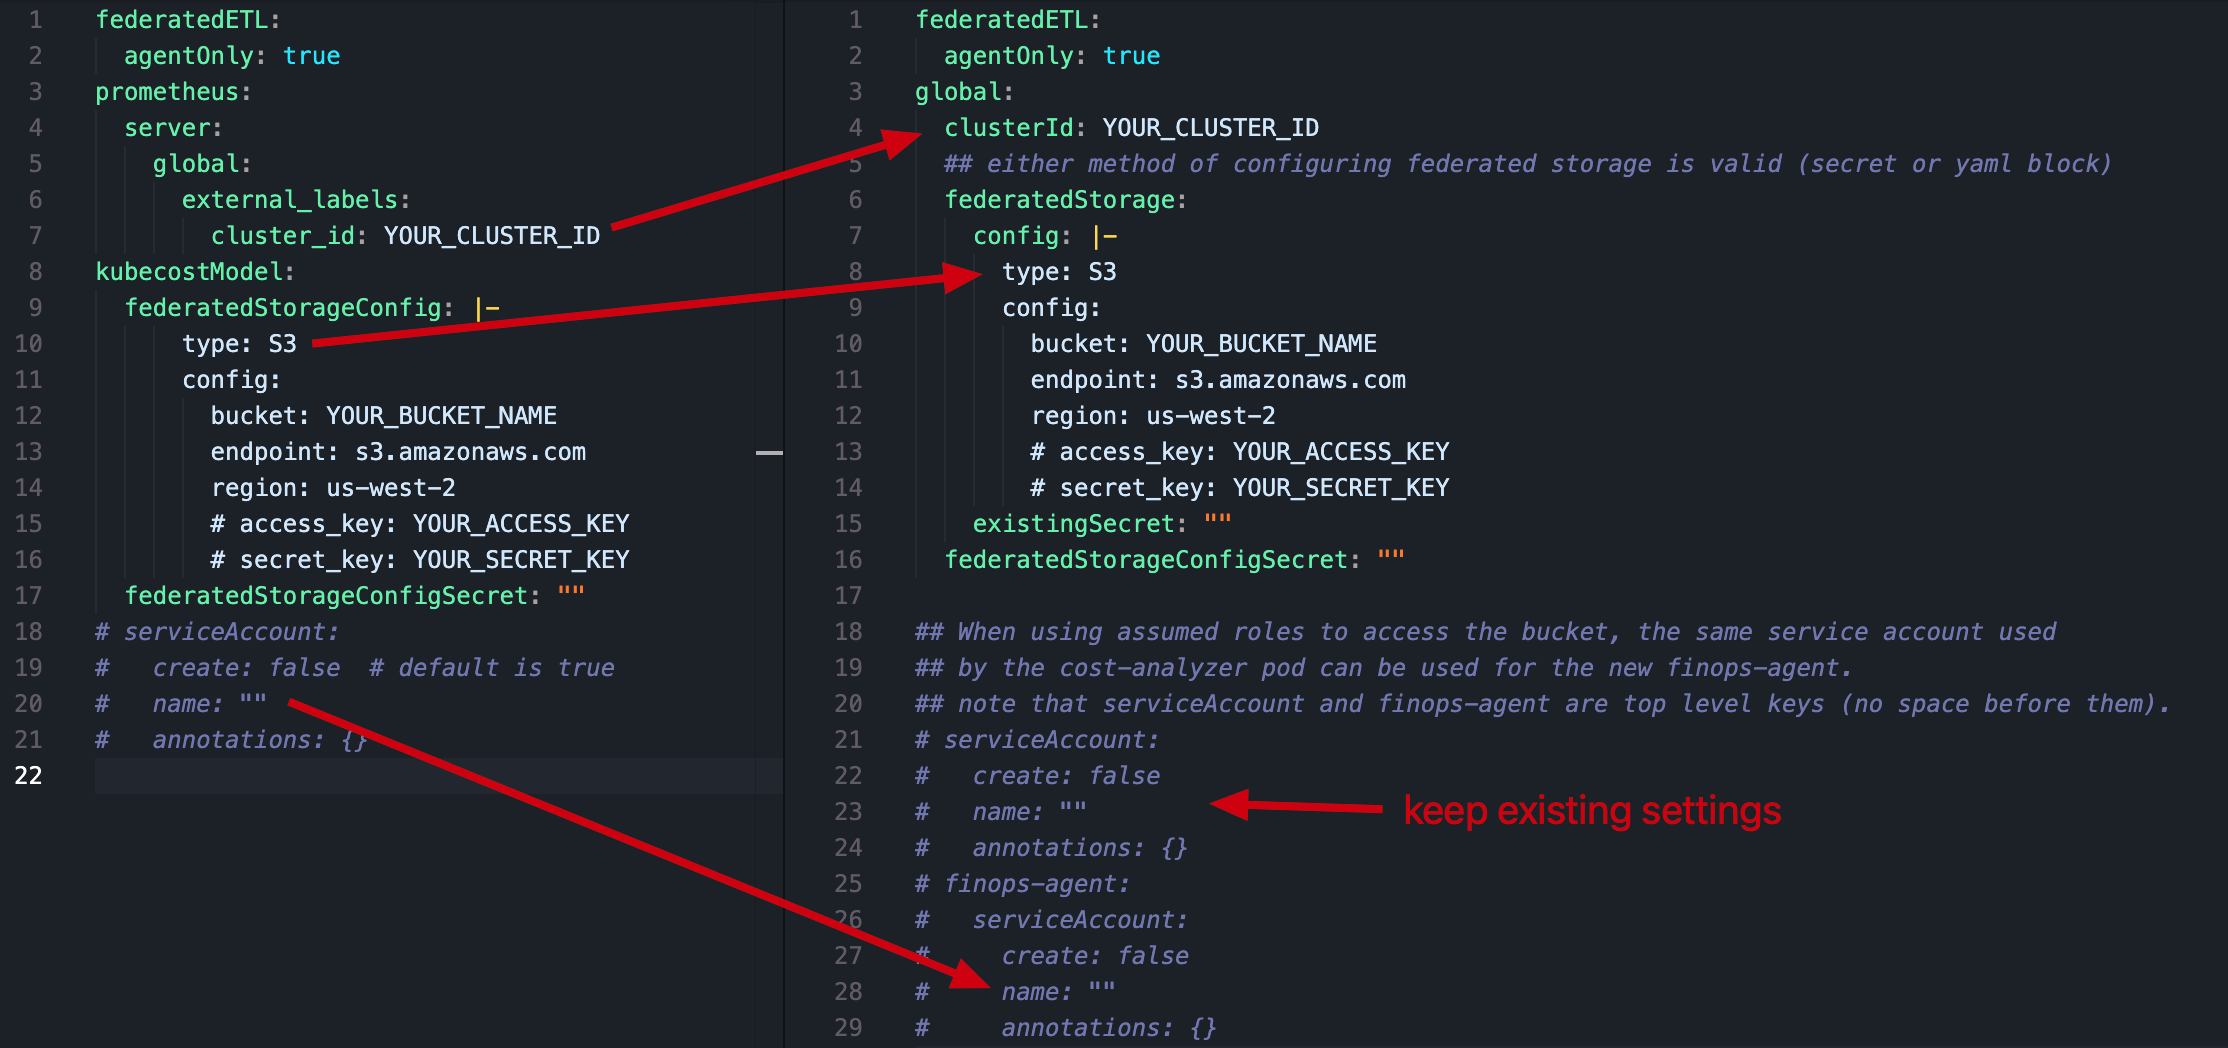
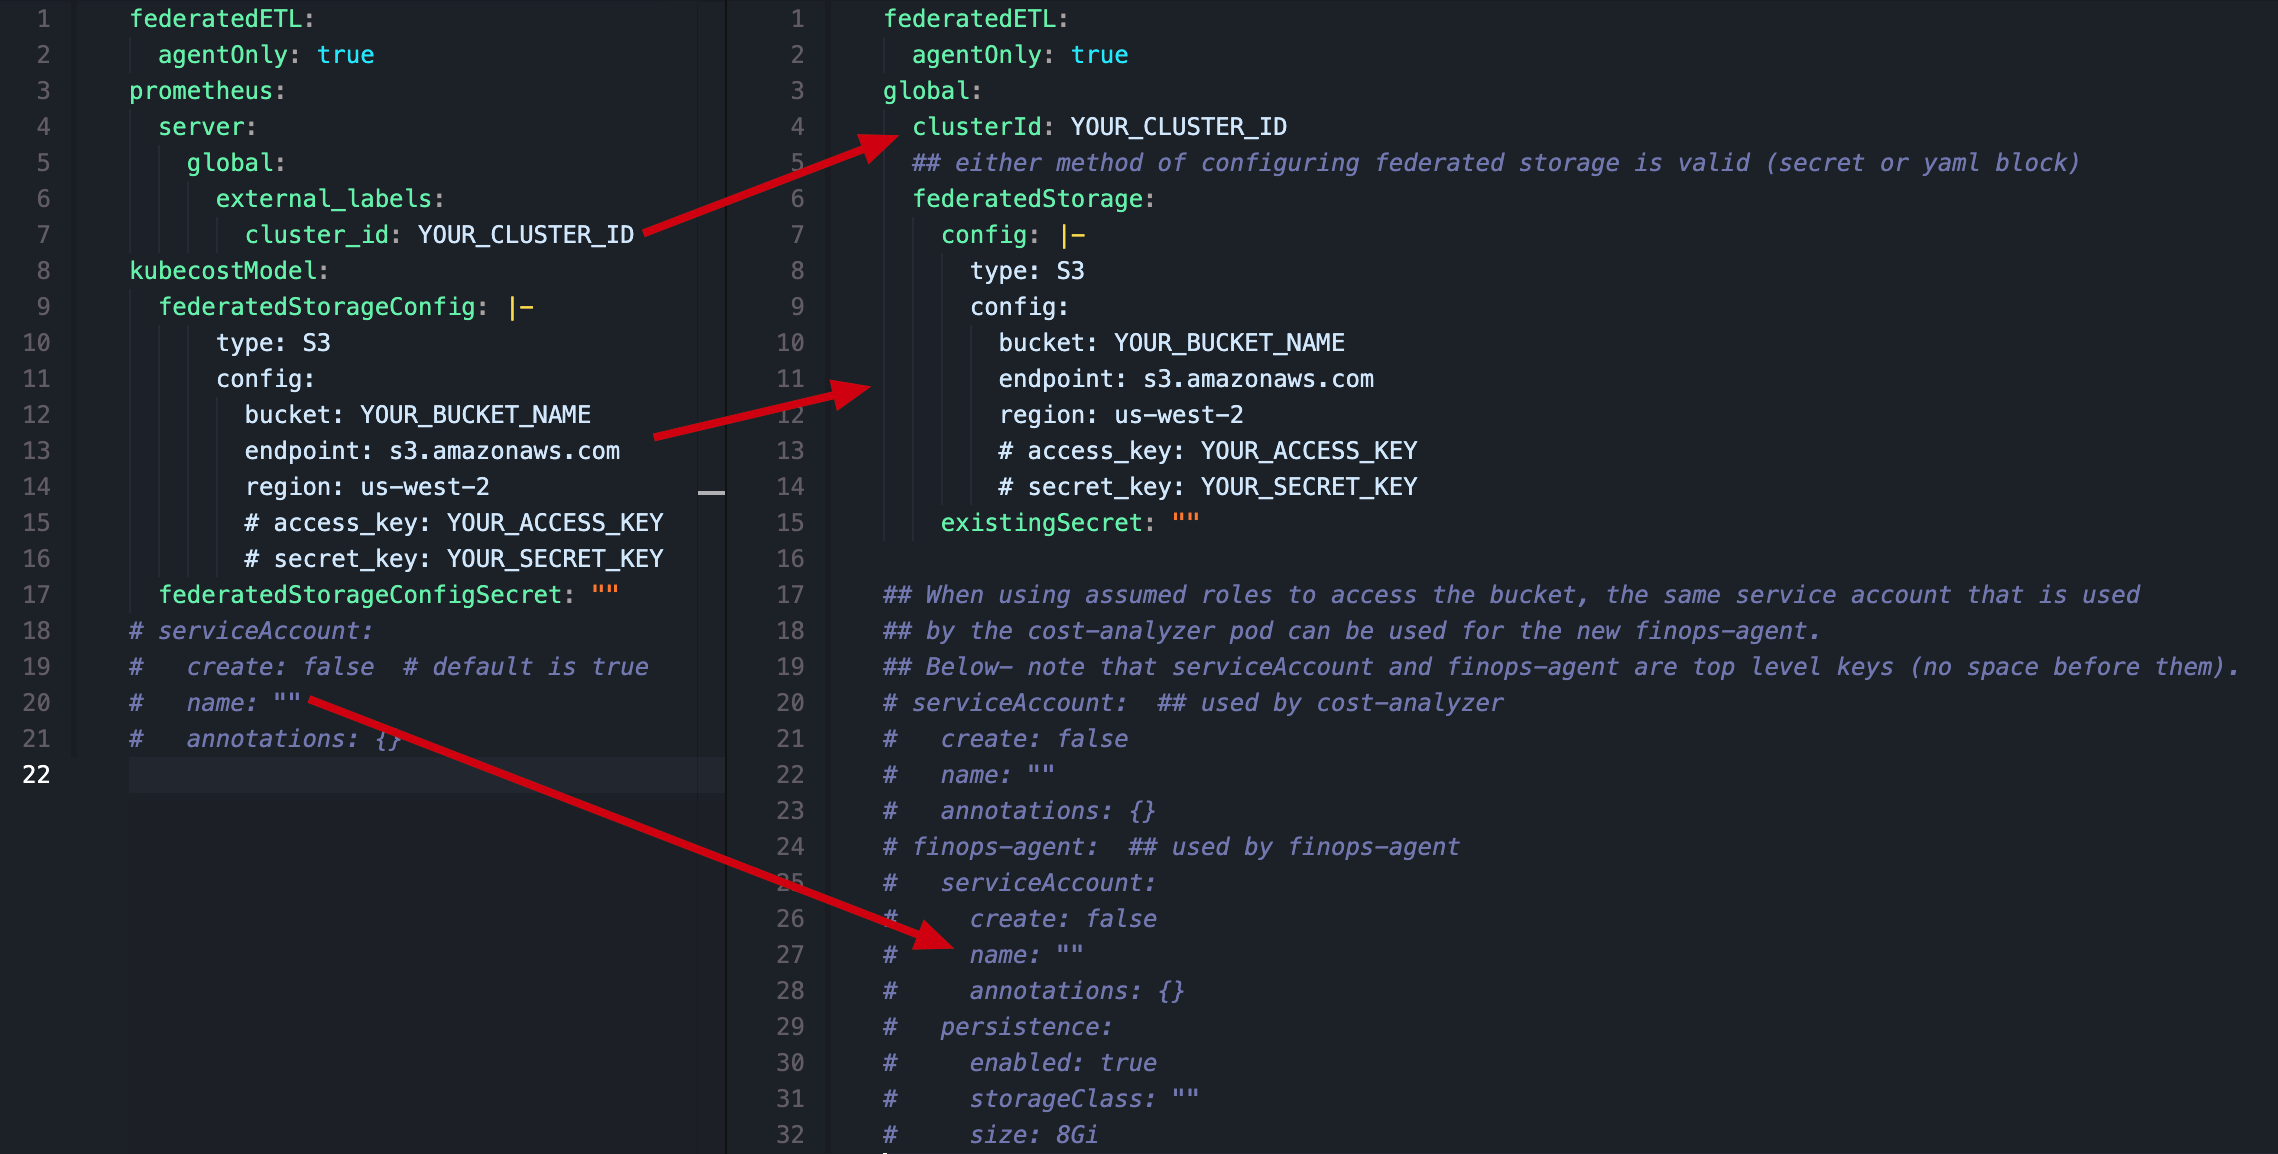
2.9 howto

diff --git a/examples/agentOnly/README.md b/examples/agentOnly/README.md
@@ -15,7 +15,7 @@ There are two values that will need to be modified before upgrading to 2.9, whic
 1. Move the old `prometheus.server.global.external_labels.cluster_id` to `global.clusterId`
 2. Move the federated storage configuration from the `kubecostModel` section to the `global` section.
 3. If your existing Kubecost deployment uses an assumed role (opposed to an IAM user/key), you will need to configure the finops-agent to use the existing service account. In the values provided, uncomment the `serviceAccount` and `finops-agent` sections and set the `name` to the name of the service account used by the cost-analyzer pod.
-![settings migration]](settings-migration-2.9.png)
+![upgrade-values-2.9](settings-migration-2.9.png)
 4. Upgrade to 2.9.x
 
 ```bash
